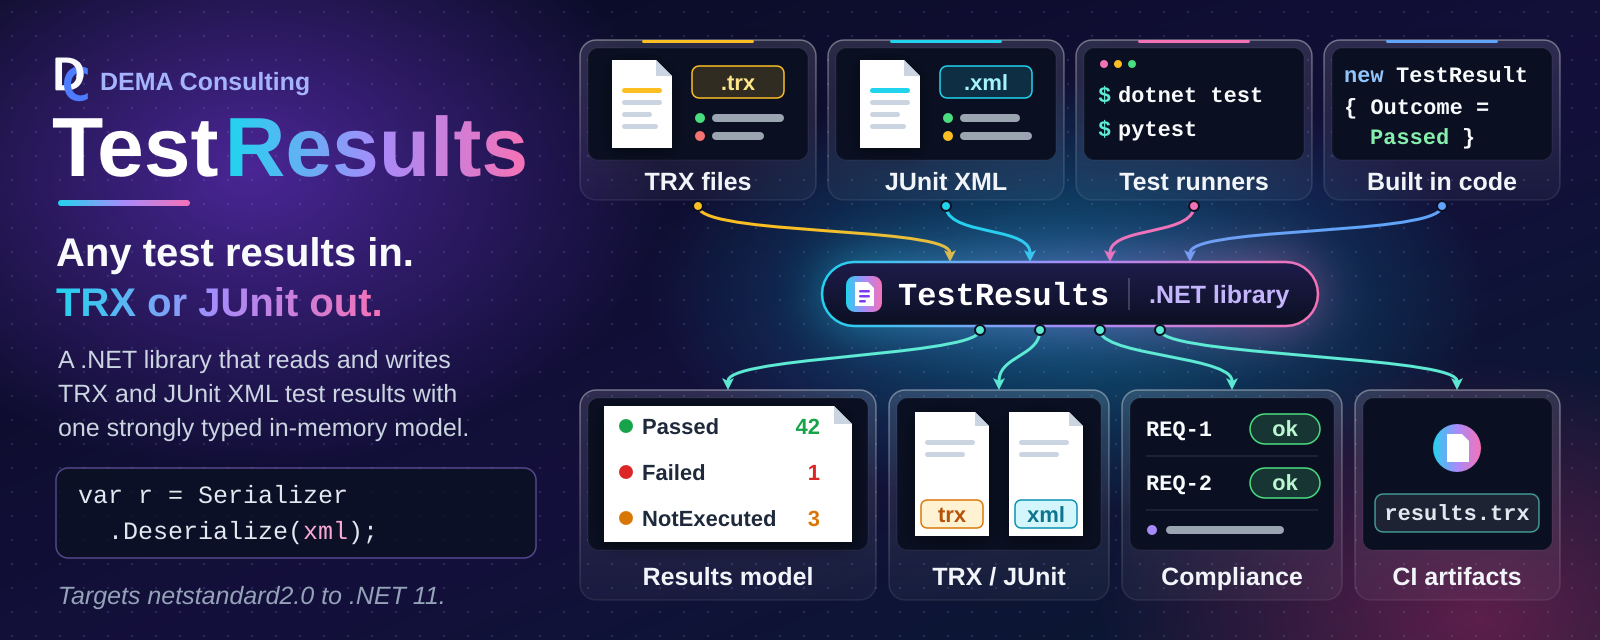
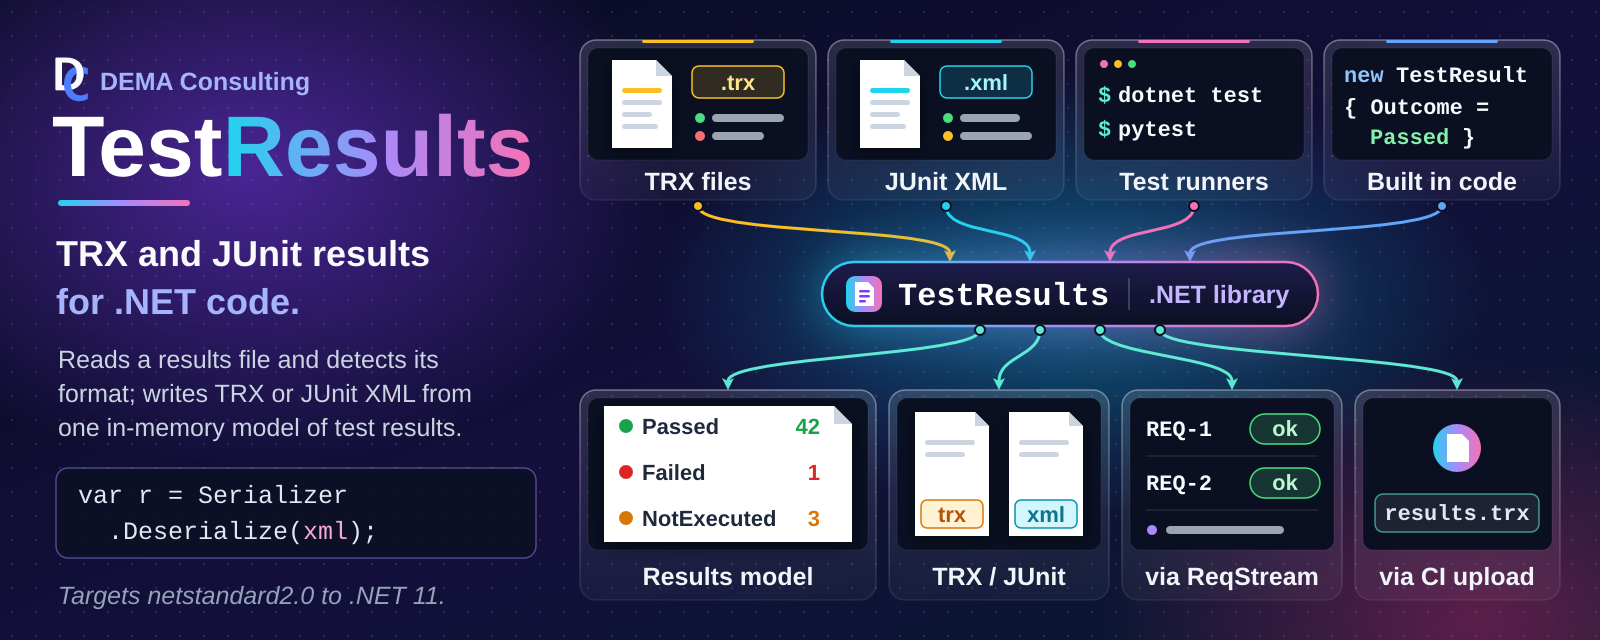
Sync agents/template and calm the README hero (#213)
* Sync agents, skills, and standards from shared Agents repo

Copies .github/agents, skills, and standards verbatim from Agents origin/main (#60, #62, #64, #68), applies the AGENTS.md Project Scripts change, and records the legacy SysML2 package layout as a repository-specific exception.

* Sync template: YAML no-limit policy, tool pins, script customization notes

Applies template #57/#58/#59 (LintMark 0.1.0-beta.3, TextLint 0.1.0-beta.5, yamllint line-length disabled, yamlfix line_length 10000), #61 (comments_require_starting_space = false), and #63 (CUSTOMIZATION headers in build/lint/fix scripts). fix.ps1 produced no YAML changes.

* Calm the README hero and make it the H1

Template #66/#67: plain tagline 'TRX and JUnit results / for .NET code.', factual body, adaptive 86px wordmark with a measured second-word offset, downstream output cards labelled 'via ReqStream' and 'via CI upload', and the hero image as the README H1 with name-and-tagline alt text.

* Add the comments_require_starting_space setting to .yamlfix.toml

The template comment was added but the setting itself was missing (review feedback).

---------

diff --git a/.github/standards/sysml2-modeling.md b/.github/standards/sysml2-modeling.md
@@ -31,15 +31,15 @@ docs/sysml2/
 ├── common/
 │   └── software-items.sysml           # shared SoftwareItemMetadata::SoftwareInfo metadata def
 ├── model/
-│   ├── {system-name}.sysml            # system-level part def only (no subsystems/units inline)
+│   ├── {system-name}.sysml            # package {SystemName}; system-level part def only (no subsystems/units inline)
 │   ├── {system-name}/
-│   │   ├── {subsystem-name}.sysml     # subsystem part def; nests further for sub-subsystems
+│   │   ├── {subsystem-name}.sysml     # package {SystemName}_{SubsystemName}Subsystem; nests further for sub-subsystems
 │   │   └── {subsystem-name}/
-│   │       └── {unit-name}.sysml      # one file per unit
-│   ├── ots.sysml                      # OTS dependency parts (optional; if OTS items exist)
-│   └── shared.sysml                   # Shared Package parts (optional; if Shared Packages exist)
+│   │       └── {unit-name}.sysml      # package {SystemName}_{UnitName}; one file per unit
+│   ├── ots.sysml                      # package OtsDependencies: OTS parts (optional; if OTS items exist)
+│   └── shared.sysml                   # package SharedPackages: Shared Package parts (optional; if Shared Packages exist)
 └── views/
-    └── design-views.sysml             # named view usages rendered for the design document
+    └── design-views.sysml             # package {RepoName}DesignViews; named view usages rendered for the design document
 ```
 
 `docs/sysml2/common/software-items.sysml` defines the `SoftwareItemMetadata::SoftwareInfo`
@@ -62,14 +62,42 @@ so no single alias name would generalize. Agents discover the system(s) present 
 `docs/sysml2/**/*.sysml`, not by assuming a fixed name.
 
 Always pass the full set of `.sysml` files (or an equivalent glob) to every `sysml2tools`
-invocation — the model spans multiple files and cross-references between them; files sharing
-the same `package Name { ... }` merge into one namespace automatically with no `import`
-required, as long as all files are passed together. As of `sysml2tools` 0.1.0-beta.5,
+invocation — the model spans multiple files and cross-references between them, and a
+reference only resolves when the file declaring its target is loaded (see Package Structure
+below for how files reference each other). As of `sysml2tools` 0.1.0-beta.5,
 `lint` and `render` both expand `*`/`**` glob patterns internally (recursing correctly into
 subdirectories), so pass a single **quoted** glob string (e.g. `'docs/sysml2/**/*.sysml'`)
 and let the tool resolve it — do not rely on the shell to expand it, and do not quote-strip
 the pattern before it reaches the tool. Quoting keeps the behavior identical across
 PowerShell and bash, since neither shell needs to (or reliably does) expand `**` itself.
+
+## Package Structure
+
+SysML v2 has no package merging: each file is its own root namespace, and two root packages
+with the same name are duplicate members of the global namespace (the OMG Pilot
+Implementation reports "Duplicate of other owned member name" for each, and references across
+the halves do not resolve). A model that only loads because a tool is lenient is not portable,
+so:
+
+- Each `.sysml` file declares **exactly one uniquely named package**, and a package is never
+  declared (or "reopened") in more than one file.
+- Name each package from its place in the hierarchy, joined with an underscore:
+  `{SystemName}` for the system file, `{SystemName}_{SubsystemName}Subsystem` for a subsystem
+  (including a nested sub-subsystem, which is not prefixed with its parent subsystem), and
+  `{SystemName}_{UnitName}` for a unit. The system prefix keeps names unique across systems.
+  The shared files use `OtsDependencies` and `SharedPackages`, and the single views file uses
+  one repository-level package, `{RepoName}DesignViews` (not one per system).
+- Package names must be unique **repository-wide**. The short forms above are the default;
+  when one would collide (two `Storage` subsystems in different branches, or two units named
+  `Cache` in different subsystems), qualify it with the owning subsystem path, for example
+  `{SystemName}_{SubsystemName}_{UnitName}` (`Acme_Ingest_Cache` and `Acme_Query_Cache`).
+- Reference other files with an explicit `private import {PackageName}::*;` (a system or
+  subsystem file imports the package of each direct member so its `part` usages resolve; every
+  file that applies `SoftwareInfo` imports `SoftwareItemMetadata::*`).
+- Where an import would form a cycle (for example a unit that depends on a package that
+  already imports it), or for a one-off reference into another system, use the qualified name
+  instead, e.g. `dependency {UnitName} to {SystemName}_{OtherUnit}::{OtherUnit};`.
+  Import cycles raise a lint warning; qualified references do not.
 
 ## Model Content
 
@@ -174,11 +202,13 @@ Views control what gets rendered into diagrams for the design document. Use name
 **usages** (not `view def` **definitions**) — `expose` is only valid inside a usage:
 
 ```sysml
-package {SystemName} {
+package {RepoName}DesignViews {
     private import StandardViewDefinitions::*;
+    private import {SystemName}::*;
+    private import {SystemName}_{SubsystemName}Subsystem::*;
 
     view SoftwareStructureView : InterconnectionView {
-        expose {SystemName}::**;     // all members, recursively: system + subsystems + units
+        expose {SystemName}::{SystemName}System::**;  // system part def, recursively: subsystems + units
     }
 
     view {SystemName}View {
@@ -186,13 +216,15 @@ package {SystemName} {
     }
 
     view {SubsystemName}View {
-        expose {SubsystemName};      // one subsystem def only
+        expose {SubsystemName}Subsystem;      // one subsystem def only
     }
 }
 ```
 
+Views import (or qualify) every package whose members they expose, like any other file.
+
 Type `SoftwareStructureView` by a standard view definition from the SysML v2 Views library
-(`GeneralView`, `InterconnectionView`, ...; requires `sysml2tools` 0.3.0-beta.3+). The view
+(`GeneralView`, `InterconnectionView`, ...; requires `sysml2tools` 0.3.0-beta.4+). The view
 definition selects the diagram notation; `InterconnectionView` draws the system as nested
 containment boxes, which is the clearest full-detail overview for a single system.
 
@@ -202,7 +234,9 @@ named element's containment subtree). The view definition (or a `render <kind>;`
 selects a rendering *style* — it has **no effect on scope**. `expose` is only legal inside a named
 `view Name { ... }` **usage**; it is a syntax/semantic error inside a `view def Name { ... }`
 **definition**. `expose` targets must be `::`-qualified or locally-resolvable names, not
-dotted member-access chains (`expose foo.bar;` is invalid — use `expose Bar;`).
+dotted member-access chains (`expose foo.bar;` is invalid — use `expose Bar;`). A `render <kind>;`
+member such as `render asInterconnectionDiagram;` needs `private import Views::*;` in the views package,
+or `lint --strict-unresolved` reports it as an unresolved reference.
 
 **Exposing a package needs a membership wildcard.** `expose {Package};` exposes only the
 package element itself, which renders as an empty package symbol. To show what a package
@@ -223,25 +257,27 @@ There is no dedicated `DependencyView`/`{SubsystemName}DependencyView` diagram c
 above), not rendered.
 
 When a repository has multiple systems, type `SoftwareStructureView` by `GeneralView`,
-expose each system package's members, and filter out documentation so the overview stays
-readable — the general view draws one package frame per system, while an interconnection
-view places all systems in a single row:
+expose each system's part def (and each subsystem's, by qualified name), and filter out
+documentation so the overview stays readable — the general view draws one package frame per
+system, while an interconnection view places all systems in a single row:
 
 ```sysml
 package {RepoName}DesignViews {
     private import StandardViewDefinitions::*;
 
     view SoftwareStructureView : GeneralView {
-        expose {SystemNameA}::**;
-        expose {SystemNameB}::**;
-        filter not @SysML::Documentation;
+        expose {SystemNameA}::{SystemNameA}System;
+        expose {SystemNameA}_{SubsystemName}Subsystem::{SubsystemName}Subsystem;
+        expose {SystemNameB}::{SystemNameB}System;
+        filter not (@SysML::Documentation);
     }
 }
 ```
 
 Documentation (`doc`) is exposed with its owner and drawn as a `doc` compartment unless a
-view filters it out; use `filter not @SysML::Documentation;` wherever doc text would clutter
-a diagram.
+view filters it out; use `filter not (@SysML::Documentation);` wherever doc text would clutter
+a diagram. The parentheses are required: the SysML v2 grammar does not accept the unparenthesized
+`filter not @SysML::Documentation;`.
 
 ## Diagram Embedding
 
@@ -282,7 +318,8 @@ Document dependencies in prose instead of a diagram: each System/Subsystem desig
 - `sysml2tools lint` belongs in `lint.ps1`'s compliance-tools section, **not** as a separate
   step in the CI design-document job — `lint.ps1` gates every later job (including document
   generation) transitively, so linting the model there is both earlier and non-duplicated.
-  Pass a single quoted recursive glob, e.g. `dotnet sysml2tools lint 'docs/sysml2/**/*.sysml'`
+  Pass a single quoted recursive glob and `--strict-unresolved` (0.3.0-beta.4+, which fails the lint on unresolved
+  references), e.g. `dotnet sysml2tools lint --strict-unresolved 'docs/sysml2/**/*.sysml'`
   — `sysml2tools` (0.1.0-beta.5+) expands and recurses this itself, so no
   `Get-ChildItem`/shell-side globbing is needed.
 - The CI design-document job renders the views (see the render command above) before running Pandoc, so generated SVGs
@@ -313,6 +350,9 @@ sync.
   `sourceFiles`; the purpose statement appears only in the `doc` comment, never in `SoftwareInfo`
 - [ ] `docs/sysml2/views/design-views.sysml` uses `view Name { expose ...; }` usages, not
   `view def` definitions
+- [ ] Each `.sysml` file declares exactly one uniquely named package (never the same package
+  in two files), named per Package Structure, and references other files through
+  `private import` or qualified names (qualified where an import would form a cycle)
 - [ ] View names follow the `SoftwareStructureView` / `{SystemName}View` /
   `{SubsystemName}View` convention (no dedicated `DependencyView`)
 - [ ] Each Unit's real collaborators are captured as `dependency A to B;` statements, and each

diff --git a/.github/skills/sysml2tools-query/SKILL.md b/.github/skills/sysml2tools-query/SKILL.md
@@ -21,11 +21,15 @@ dotnet tool restore
 ## Model files
 
 - `docs/sysml2/model/{system-name}.sysml` — system-level `part def` only (no subsystems/units
-  inline). A repository may contain more than one system.
+  inline), in package `{SystemName}`. A repository may contain more than one system.
 - `docs/sysml2/model/{system-name}/{subsystem-name}.sysml` and
   `docs/sysml2/model/{system-name}/{subsystem-name}/{unit-name}.sysml` — one file per
   Subsystem/Unit, nested to mirror the same folder depth as that item's companion
-  `docs/design/`, `docs/reqstream/`, and `docs/verification/` files.
+  `docs/design/`, `docs/reqstream/`, and `docs/verification/` files. Each declares its own
+  uniquely named package; by default `{SystemName}_{SubsystemName}Subsystem` or
+  `{SystemName}_{UnitName}`, qualified with the subsystem path
+  (`{SystemName}_{SubsystemName}_{UnitName}`) when the short name would collide. An element's
+  qualified name is e.g. `{SystemName}_{UnitName}::{UnitName}`.
 - `docs/sysml2/model/ots.sysml` — off-the-shelf (OTS) dependency parts (present when OTS items
   exist).
 - `docs/sysml2/model/shared.sysml` — Shared Package parts (present when Shared Package items
@@ -35,9 +39,10 @@ dotnet tool restore
   useful to see how diagrams are scoped.
 
 Always pass all `.sysml` files (or a glob covering them) to every `sysml2tools`
-invocation — the model spans multiple files and cross-references between them; files that
-reopen the same `package Name { ... }` from different files merge into one namespace
-automatically, no `import` required. As of `sysml2tools` 0.1.0-beta.5, every subcommand
+invocation — the model spans multiple files and cross-references between them (each file
+declares one uniquely named package and references others through `import` or qualified
+names; same-named packages in different files are not merged), so every file a reference
+points at must be loaded. As of `sysml2tools` 0.1.0-beta.5, every subcommand
 (`lint`, `render`, `query`) expands `*`/`**` glob patterns internally and recurses
 correctly — pass a single **quoted** glob string and let the tool resolve it, rather than
 relying on the shell (quoting works identically in both PowerShell and bash):
@@ -57,7 +62,7 @@ summary line, so one query gets you every artifact location for that item withou
 the source tree:
 
 ```pwsh
-dotnet sysml2tools query describe -e {SystemName}::{UnitName} 'docs/sysml2/**/*.sysml'
+dotnet sysml2tools query describe -e {SystemName}_{UnitName}::{UnitName} 'docs/sysml2/**/*.sysml'
 ```
 
 ```text
@@ -152,5 +157,5 @@ standard for full modeling and view-authoring conventions.
 Before committing changes to any `.sysml` file, lint it:
 
 ```pwsh
-dotnet sysml2tools lint 'docs/sysml2/**/*.sysml'
+dotnet sysml2tools lint --strict-unresolved 'docs/sysml2/**/*.sysml'
 ```

diff --git a/AGENTS.md b/AGENTS.md
@@ -160,10 +160,31 @@ requires it and the modification preserves the documented design intent:
 
 - `.reviewmark.yaml`, `.textlint.yaml`, `.editorconfig`
 - `.lintmark.yaml`, `.yamllint.yaml`
-- `requirements.yaml`, `fix.ps1`, `lint.ps1`
+- `requirements.yaml`
+
+# Project Scripts
+
+`build.ps1`, `lint.ps1`, and `fix.ps1` belong to the project: extend them as it grows. Add project-specific
+steps, update tool versions, and add optional parameters that focus a run (for example one library in a
+multi-library repository, or headless tests without GUI automation). Two rules keep them trustworthy:
+
+- Run with no arguments, each script still does its full job (CI and the agents rely on that); slow or
+  environment-dependent test tiers may be opt-in switches of `build.ps1`.
+- Never remove or weaken a check to make lint or tests pass.
 
 # Continuous Compliance Overview
 
 This repository follows the [Continuous Compliance](https://github.com/demaconsulting/ContinuousCompliance)
 approach. Tools: **ReqStream** (requirements traceability), **ReviewMark** (file review enforcement),
 **BuildMark** (tool versions), **VersionMark** (version tracking).
+
+# Repository-Specific Standards Exceptions
+
+## SysML2 package structure (legacy layout, migration pending)
+
+The SysML2 model under `docs/sysml2/` predates the one-package-per-file rule: the `TestResultsLibrary`
+package is reopened across 10 files (the system file, the eight unit and subsystem files, and
+`views/design-views.sysml`), and the views file uses `TestResultsLibrary` rather than `TestResultsDesignViews`.
+The Package Structure rules in `sysml2-modeling.md` and the qualified-name examples in the `sysml2tools-query`
+skill apply once the model is migrated in a dedicated pull request. Until then, agents use the existing package
+names and must not partially restructure the model.

diff --git a/.github/skills/docdown/SKILL.md b/.github/skills/docdown/SKILL.md
@@ -21,7 +21,9 @@ dotnet docdown --help
 
 ## Scratch Folder
 
-The default `--overwrite clean` deletes everything in the scratch folder, so always pass a new
+The default `--overwrite clean` only replaces an earlier DocDown extraction: it deletes the files that
+folder's DocDown manifest lists and refuses to run if the folder holds anything else
+(`--overwrite overwrite` deletes everything and is never needed here). Still, always pass a new
 subfolder dedicated to the one document - never an existing folder:
 
 - **Preferred**: the agent session folder, when the host provides one, for example
@@ -39,8 +41,9 @@ Never extract into the repository.
    dotnet docdown --input path/to/data-sheet.pdf --scratch {scratch}/data-sheet
    ```
 
-   The last line of output is the path to `summary.txt`. Exit code `1` means the document was
-   unreadable or an argument was bad.
+   The last line of output is the path to `summary.txt`. Exit code `1` means the run failed for an
+   expected reason - an unreadable document, a bad argument, or an option such as `--log` whose file
+   could not be opened; the message says which.
 
 2. Read `summary.txt` first: what was extracted, what is where, and notes on anything that could
    not be read.

diff --git a/.github/agents/orchestrator.agent.md b/.github/agents/orchestrator.agent.md
@@ -48,3 +48,16 @@ briefly, what you loaded.
   let the user answer in their own words. Do not batch decisions into structured question forms (such as an
   `ask_user` tool); they strip away the context the user needs to decide and turn the session into a
   questionnaire.
+
+# Pull Requests (MANDATORY)
+
+Aim for pull requests that each merge one complete, useful change that could be cherry-picked on its own.
+
+- Before starting work that could span more than one pull request, propose the grouping and let the user
+  decide. The user may split it, or combine several small requests into one pull request.
+- When splitting, split by behavior, not by layer or file type: each part carries its own code, tests,
+  requirements, and docs, builds and passes alone, and leaves no stubs or dead code for a later part.
+- Deliver parts in order: start the next part from main only after the previous one merges.
+- Review fixes, lint fixes, and follow-ups go into the open pull request they belong to, not a new one.
+- Sub-agents work on the agreed branch and do not open pull requests; you decide when it is complete.
+- Keep mechanical churn (formatting, renames, generated files) in its own commit so reviewers can skip it.

diff --git a/README.md b/README.md
@@ -1,7 +1,4 @@
-# TestResults
-
-<!-- IMPORTANT: All links in this file must be absolute URLs.
-     This file is distributed in packages and relative links will not resolve. -->
+# ![TestResults: TRX and JUnit results for .NET code][hero]
 
 [![GitHub forks][badge-forks]][link-forks]
 [![GitHub stars][badge-stars]][link-stars]
@@ -12,9 +9,8 @@
 [![Security][badge-security]][link-security]
 [![NuGet][badge-nuget]][link-nuget]
 
-![TestResults banner: the TestResults name with the tagline 'Any test results in. TRX or JUnit out.' and the C# call 'var r = Serializer.Deserialize(xml);'. TRX files, JUnit XML, test runner output, and results built in code flow on curved arrows into the TestResults .NET library, and arrows lead out to what it produces, an in-memory results model with Passed, Failed, and NotExecuted counts and written TRX and JUnit files, and on to where those files are used downstream: requirements evidence in compliance tools and CI artifacts][hero]
-
-.NET library for TRX and JUnit test results
+<!-- IMPORTANT: All links in this file must be absolute URLs.
+     This file is distributed in packages and relative links will not resolve. -->
 
 ## Overview
 

diff --git a/.github/agents/planning.agent.md b/.github/agents/planning.agent.md
@@ -52,10 +52,13 @@ Repeat up to 2 more times, stopping when the plan is stable.
 
 List up to 5 risks with a brief mitigation for each.
 
-## Step 6 — Feasibility Assessment
+## Step 6 — Feasibility and Delivery
 
 State whether this can be implemented in a single development pass and any
-preconditions that affect feasibility.
+preconditions that affect feasibility. Propose how the work groups into pull
+requests: one complete, useful change per pull request where possible; if it
+should be split, list ordered parts that are split by behavior (not by layer or
+file type) and each build, pass, and deliver something on their own.
 
 ## Step 7 — Recommendation
 
@@ -108,9 +111,12 @@ Then respond to the caller with ONLY the lean structured summary below.
 
 1. **[severity]** {risk} — {mitigation}
 
-## Feasibility Assessment
+## Feasibility and Delivery
 
 {Single-pass or not, and why. Any preconditions.}
+
+{Proposed pull-request grouping: one pull request, or ordered parts split by behavior,
+each with what it delivers on its own.}
 
 ## Unknowns
 
